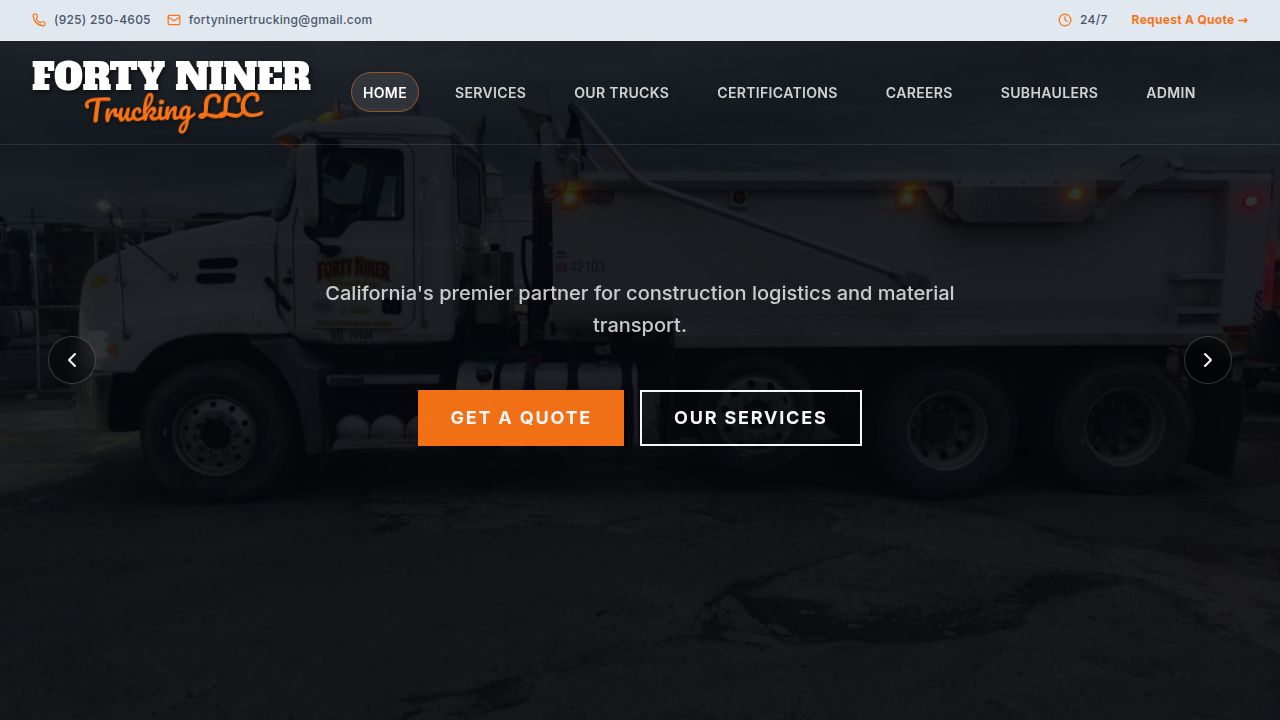
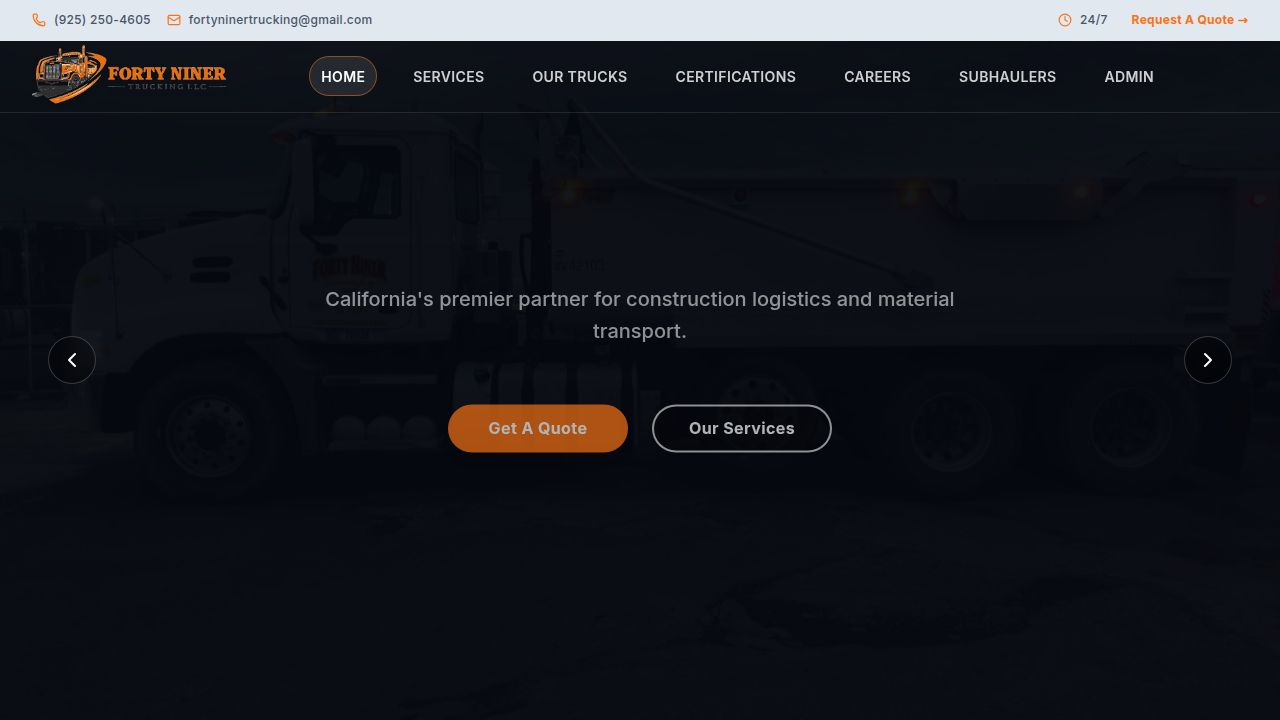
Update hero section buttons to be medium and stylish
Redesign hero section buttons with rounded corners, updated sizing, and new hover effects.

Replit-Commit-Author: Agent
Replit-Commit-Session-Id: df7b6bec-3167-499e-ae20-b822f43f44d6
Replit-Commit-Checkpoint-Type: full_checkpoint
Replit-Commit-Event-Id: b705a905-0213-4ec4-b74c-2e6f3b8edbed
Replit-Commit-Screenshot-Url: https://storage.googleapis.com/screenshot-production-us-central1/74c87e2d-ebef-452a-bdc8-60aabaeb0e62/df7b6bec-3167-499e-ae20-b822f43f44d6/uTHtzvv
Replit-Helium-Checkpoint-Created: true

diff --git a/client/src/pages/home.tsx b/client/src/pages/home.tsx
@@ -81,14 +81,14 @@ export default function Home() {
               California's premier partner for construction logistics and material transport.
             </p>
             
-            <div className="flex flex-col sm:flex-row items-center justify-center gap-4 pt-4">
+            <div className="flex flex-col sm:flex-row items-center justify-center gap-6 pt-6">
               <Link href="/contact">
-                <Button className="h-14 px-8 text-lg font-bold uppercase tracking-widest bg-[var(--primary)] hover:bg-[var(--primary)]/90 text-white rounded-none min-w-[200px]">
+                <Button className="h-12 px-8 text-base font-bold tracking-wide bg-[var(--primary)] hover:bg-white hover:text-[var(--primary)] text-white rounded-full min-w-[180px] shadow-lg hover:shadow-xl transition-all duration-300 transform hover:-translate-y-1">
                   Get A Quote
                 </Button>
               </Link>
               <Link href="/services">
-                <Button variant="outline" className="h-14 px-8 text-lg font-bold uppercase tracking-widest border-2 border-white text-white hover:bg-white hover:text-black bg-transparent rounded-none min-w-[200px]">
+                <Button variant="outline" className="h-12 px-8 text-base font-bold tracking-wide border-2 border-white/80 text-white hover:bg-white hover:text-[var(--text)] bg-black/20 backdrop-blur-sm rounded-full min-w-[180px] transition-all duration-300 transform hover:-translate-y-1">
                   Our Services
                 </Button>
               </Link>
